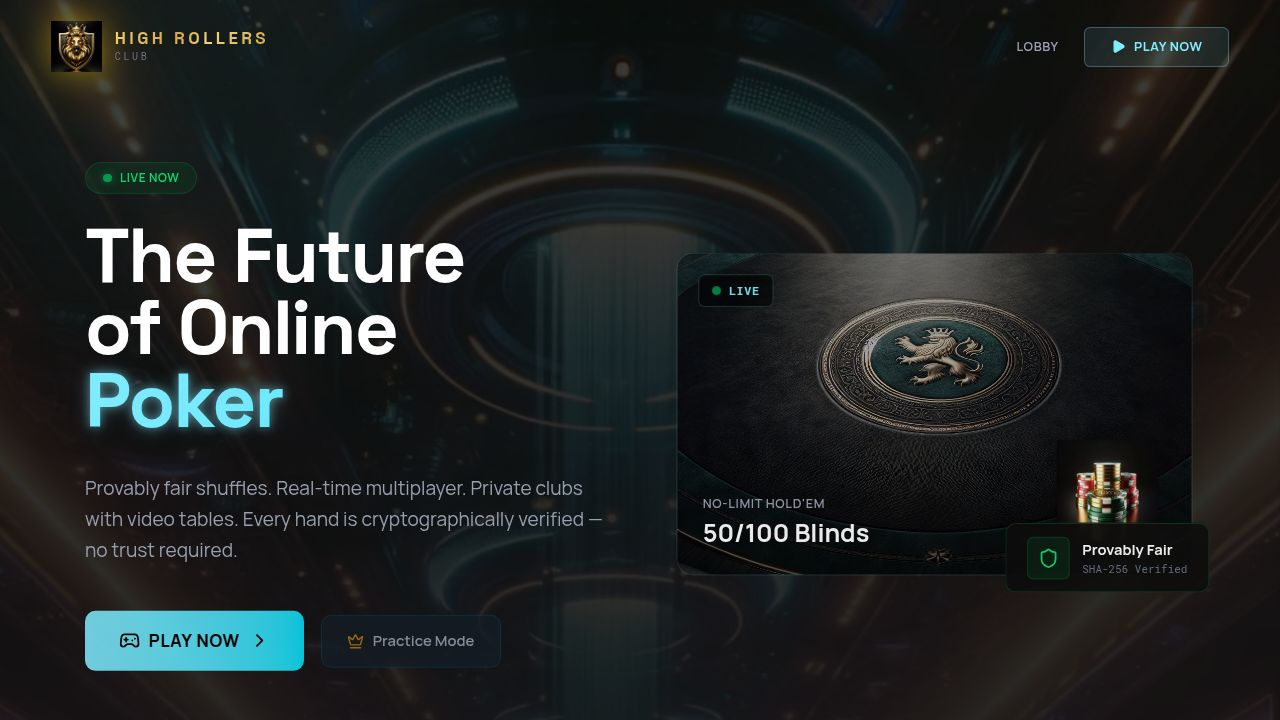
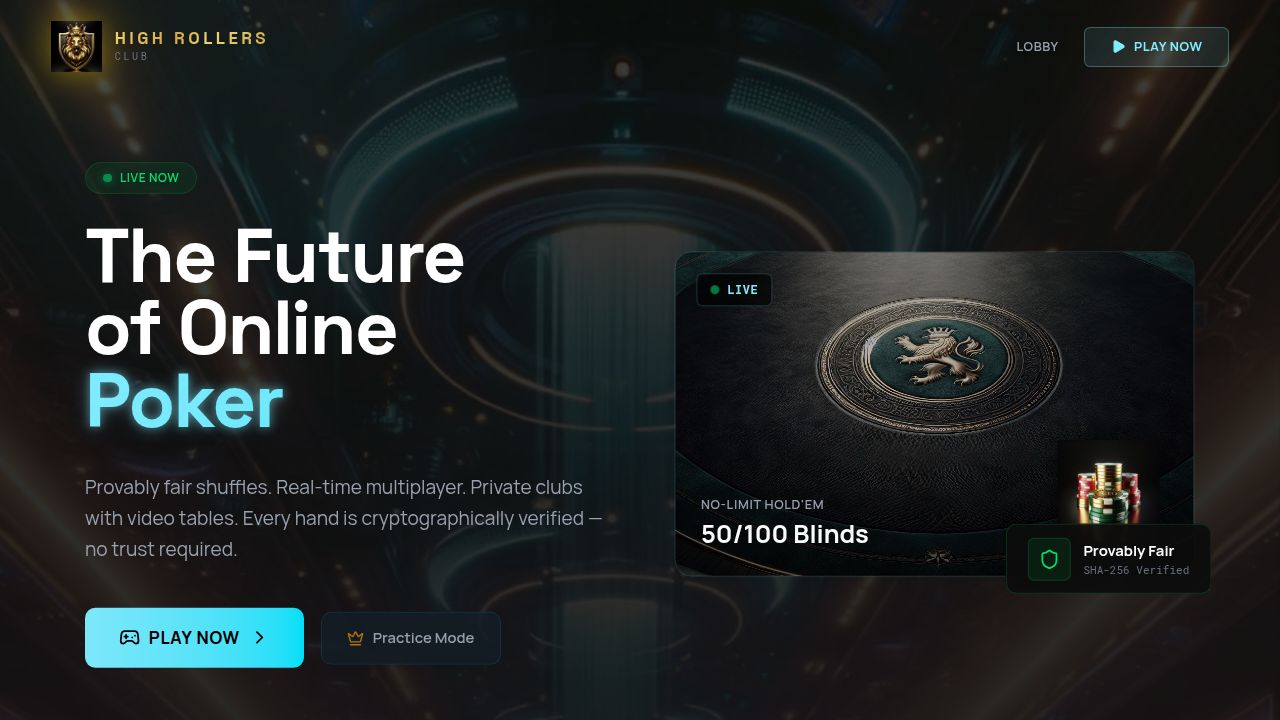
Update page backgrounds with new atmospheric glow effects
Adjusted `PageBackground` component in client/src/components/shared/PageBackground.tsx to include cyan and purple glow orbs and a darker base background color (#0a0a0c) with reduced background image opacity (0.15).

Replit-Commit-Author: Agent
Replit-Commit-Session-Id: 502fa125-5663-40cd-b115-f6b2d8e0d7b9
Replit-Commit-Checkpoint-Type: full_checkpoint
Replit-Commit-Event-Id: d0f7e52a-d9b5-4d92-b78f-7099bcb22fd3
Replit-Commit-Screenshot-Url: https://storage.googleapis.com/screenshot-production-us-central1/8c87489e-6792-4f73-b45b-a4feac30fa04/502fa125-5663-40cd-b115-f6b2d8e0d7b9/8W9vdVk
Replit-Helium-Checkpoint-Created: true

diff --git a/client/src/components/shared/PageBackground.tsx b/client/src/components/shared/PageBackground.tsx
@@ -3,9 +3,10 @@ interface PageBackgroundProps {
   opacity?: number;
 }
 
-export function PageBackground({ image, opacity = 0.3 }: PageBackgroundProps) {
+export function PageBackground({ image, opacity = 0.15 }: PageBackgroundProps) {
   return (
     <div className="fixed inset-0 z-0 pointer-events-none" aria-hidden>
+      <div className="absolute inset-0 bg-[#0a0a0c]" />
       <div
         className="absolute inset-0"
         style={{
@@ -22,6 +23,8 @@ export function PageBackground({ image, opacity = 0.3 }: PageBackgroundProps) {
           background: "linear-gradient(180deg, rgba(10,10,12,0.7) 0%, rgba(10,10,12,0.85) 50%, rgba(10,10,12,0.95) 100%)",
         }}
       />
+      <div className="absolute top-[-20%] left-[10%] w-[600px] h-[600px] bg-[#00f3ff]/[0.03] rounded-full blur-[150px]" />
+      <div className="absolute bottom-[-10%] right-[10%] w-[500px] h-[500px] bg-purple-600/[0.02] rounded-full blur-[120px]" />
     </div>
   );
 }
